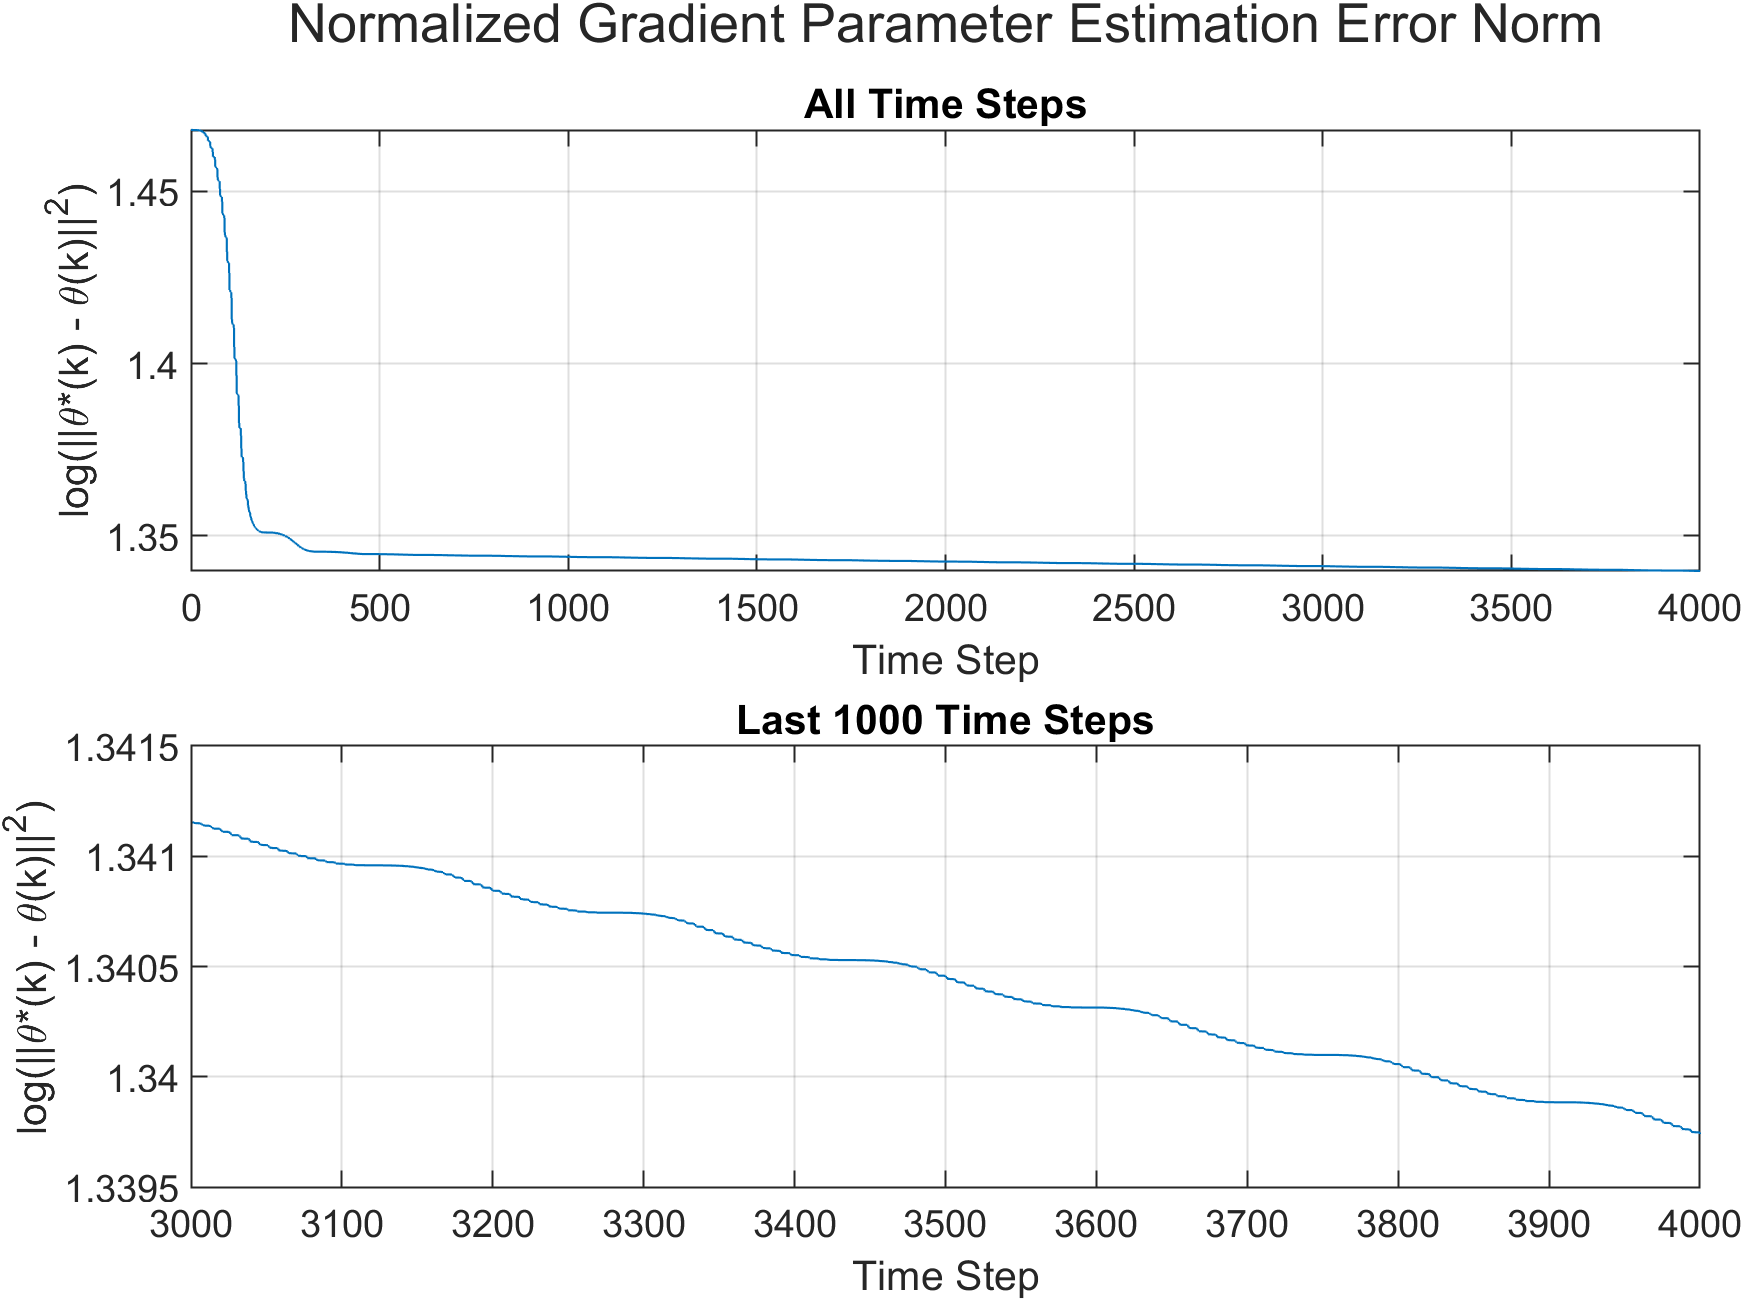
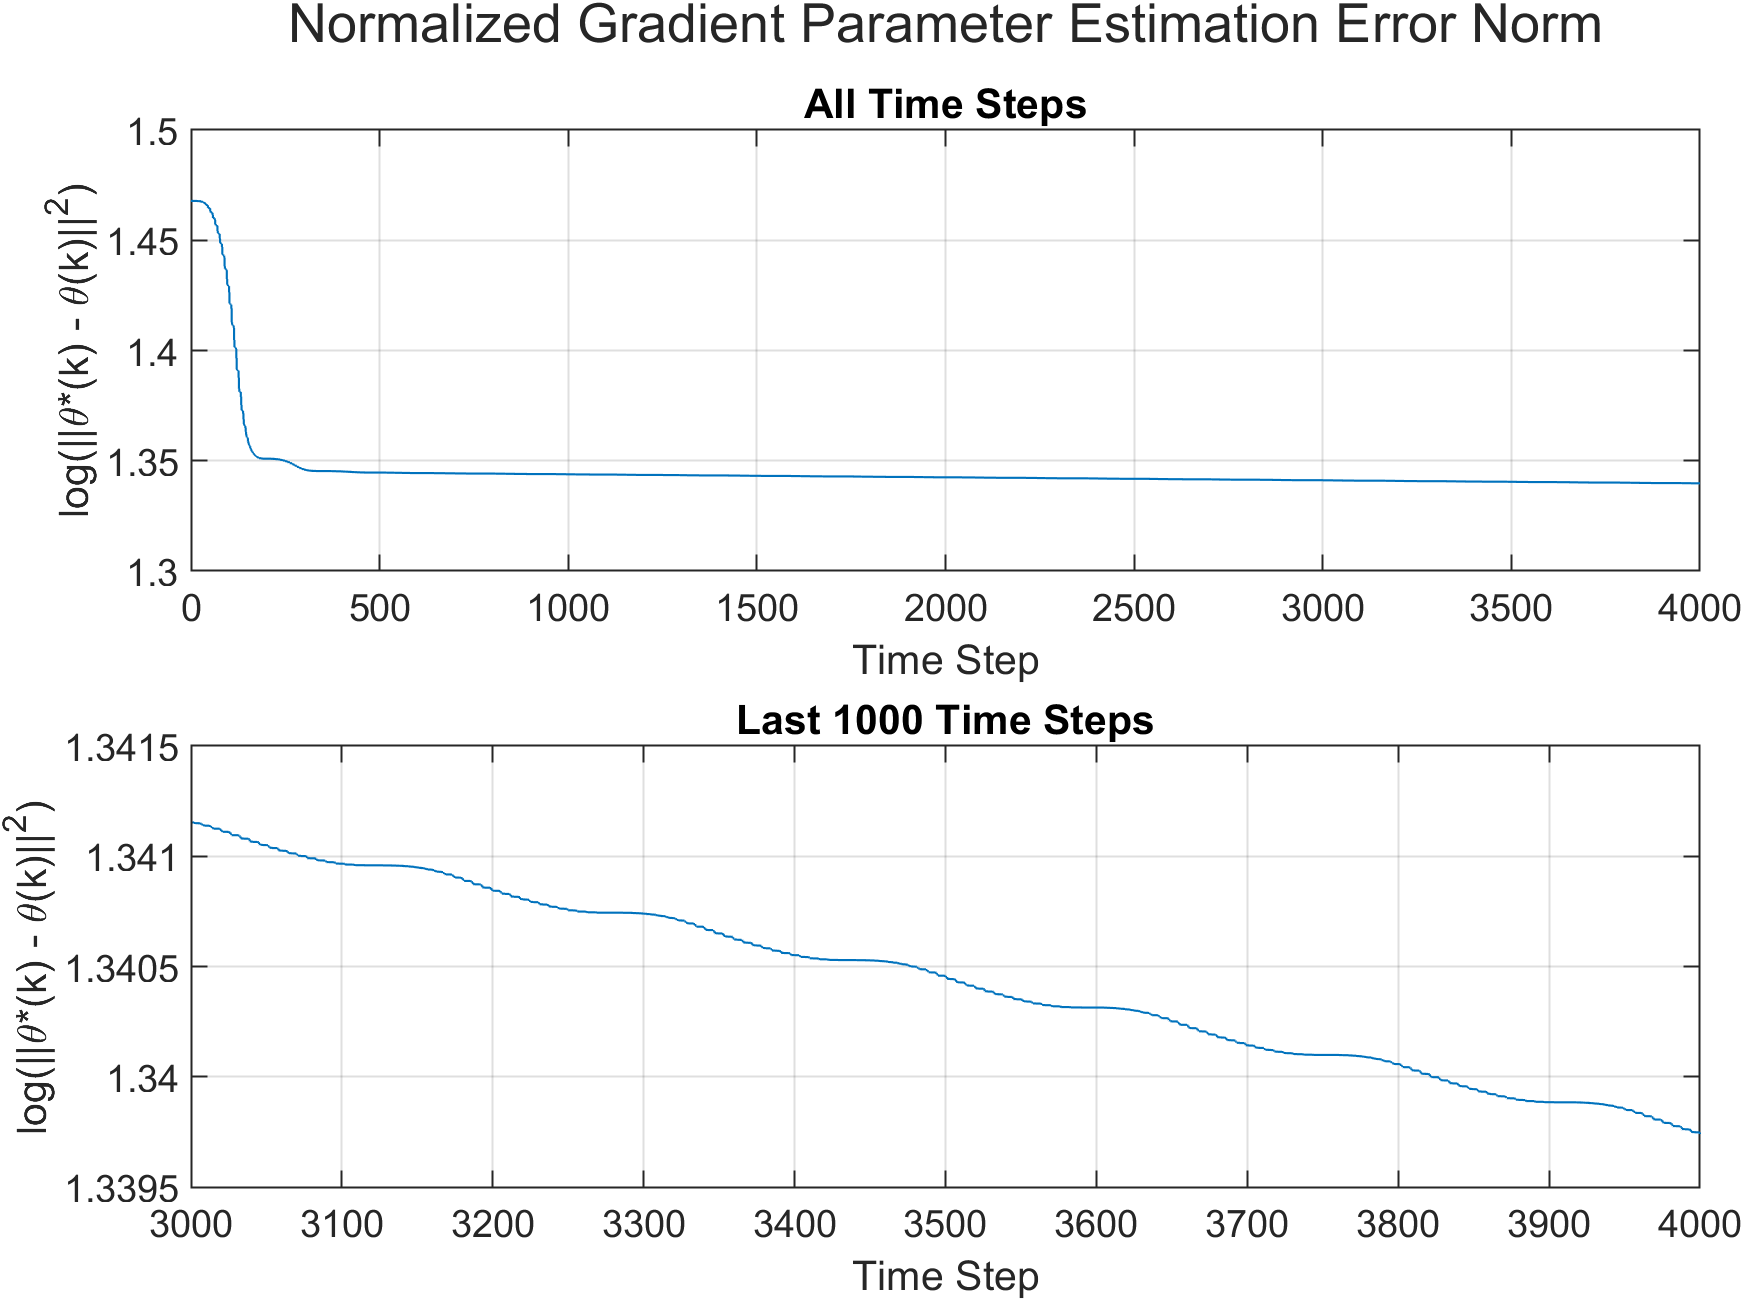
added some comments

diff --git a/takehome2/problem4_setup.m b/takehome2/problem4_setup.m
@@ -1,8 +1,10 @@
 clear; clc; close all;
 
+% Loading Model to run
 modelname = 'problem4';
 load_system(modelname);
 
+% Model parameters
 alpha = [1.847E-4; 1.922E-4];
 beta = [0.8869; -1.8850];
 theta_star = [alpha; -beta]';
@@ -10,12 +12,15 @@ P0 = 100 * eye(4);
 g = 1;
 
 % Part (a)
+% Changing model stop time to 1000 time steps
 set_param(modelname, 'StopTime', '1000');
 
+% Plotting ln(|err|) on y-axis
 figure
 
 hold on
 for lambda = [1, 0.97]
+    % Looping through model for different FF to compare
     out = sim(modelname);
     theta_estimate = out.logsout.get('theta_rls').Values;
     err = theta_estimate.Data - theta_star;
@@ -34,16 +39,18 @@ xlabel('Time Step')
 ylabel('log(||\theta*(k) - \theta(k)||^2)')
 title('RLS Parameter Estimation Error Norm for Varied \lambda')
 
+saveas(gca, 'rls_p4.png', 'png')
+
 % Part (b)
+% Next part of problem wants 4000 time steps
 set_param(modelname, 'StopTime', '4000');
 
-
+% Running Model but this time we only care about the gradient estimator
 out = sim(modelname);
 theta_estimate = out.logsout.get('theta_grad').Values;
 err = theta_estimate.Data - theta_star;
 
-saveas(gca, 'rls_p4.png', 'png')
-
+% Plotting ln|err| for gradient estimator
 figure
 t = tiledlayout(2, 1,'TileSpacing','tight','Padding','none');
 nexttile;
@@ -54,7 +61,7 @@ stairs(theta_estimate.Time, log(vecnorm(err, 2, 2).^2), ...
 grid
 xlabel('Time Step')
 ylabel('log(||\theta*(k) - \theta(k)||^2)')
-% ylim([1.3, 1.5])
+ylim([1.3, 1.5])
 title('All Time Steps')
 
 nexttile;
@@ -70,7 +77,7 @@ title(t, "Normalized Gradient Parameter Estimation Error Norm")
 
 exportgraphics(t, 'grad_estiamte_logerr_p4.png', 'Resolution', 300)
 
-
+% Plotting two values, alpha_1 and beta_1 arbitrarily chosen
 figure
 t = tiledlayout(2, 1,'TileSpacing','tight','Padding','none');
 nexttile;
